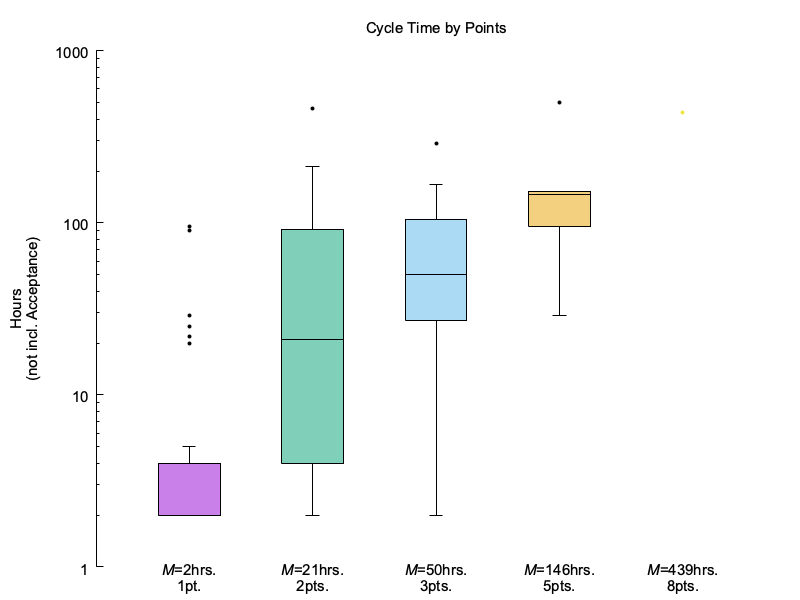
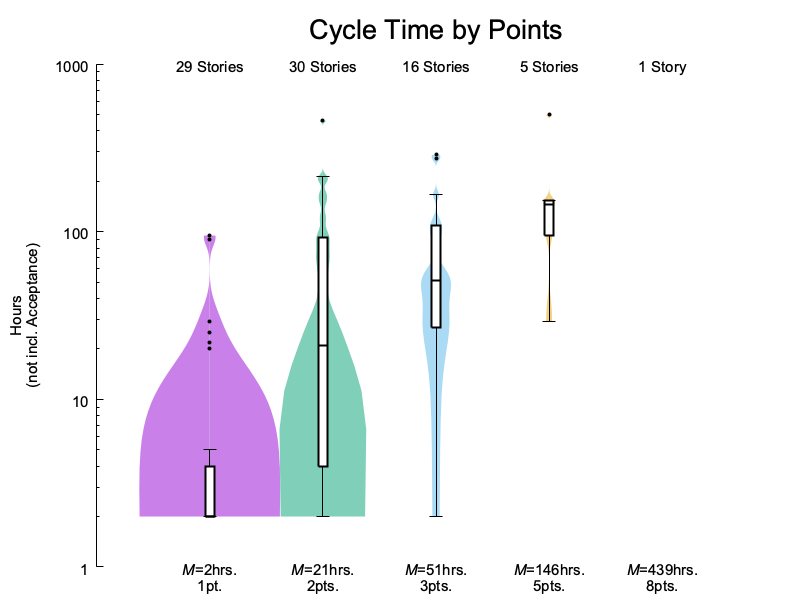
Replace histograms with violin plots

diff --git a/cycle_time/README.md b/cycle_time/README.md
@@ -1,7 +1,7 @@
 cycle_time
 ==========
 
-`cycle_time` is gnuplot script that takes an Emacs SES spreadsheet as its input and creates one box-and-whisker plot for all columns and a multiplot with a histogram for each column.
+`cycle_time` is gnuplot script that takes an Emacs SES spreadsheet as its input and creates a combined box-and-whisker and violin plot for all columns.
 
 It was written to track software development story cycle time relative to their point estimate with the goal of assisting the developers in improving their estimations. While some issue trackers have cycle time graphs, the per-estimate variability is often difficult to identify.
 
@@ -11,9 +11,7 @@ Notes
 -----
 
 - The CSV conversion is done by using `sed` (specifically GNU `sed`) whenever `stats` or `plot` are called, which is inefficient
-- The canvas dimensions are hard-coded and the layout for the multiplot is calculated based on how many columns are to be plotted
-- Each empty cell to the left of a fill cell needs to be invalid (e.g., with a `NaN` content) or the filled cell will be attributed to the wrong column; there should be an easier way to do this
-- The multiple histograms might be easier to compare if they used similar axis ranges
+- Each empty cell to the left of a filled cell needs to be invalid (e.g., with a `NaN` content) or the filled cell will be attributed to the wrong column; there should be an easier way to do this
+- The kernel density tables are written into temporary files, which are cleaned up
 
 ![Cycle Time boxplot](cycle_time.png?raw=true "Cycle Time boxplot")
-![Cycle Time histogram](cycle_time.hist.png?raw=true "Cycle Time histogram")
